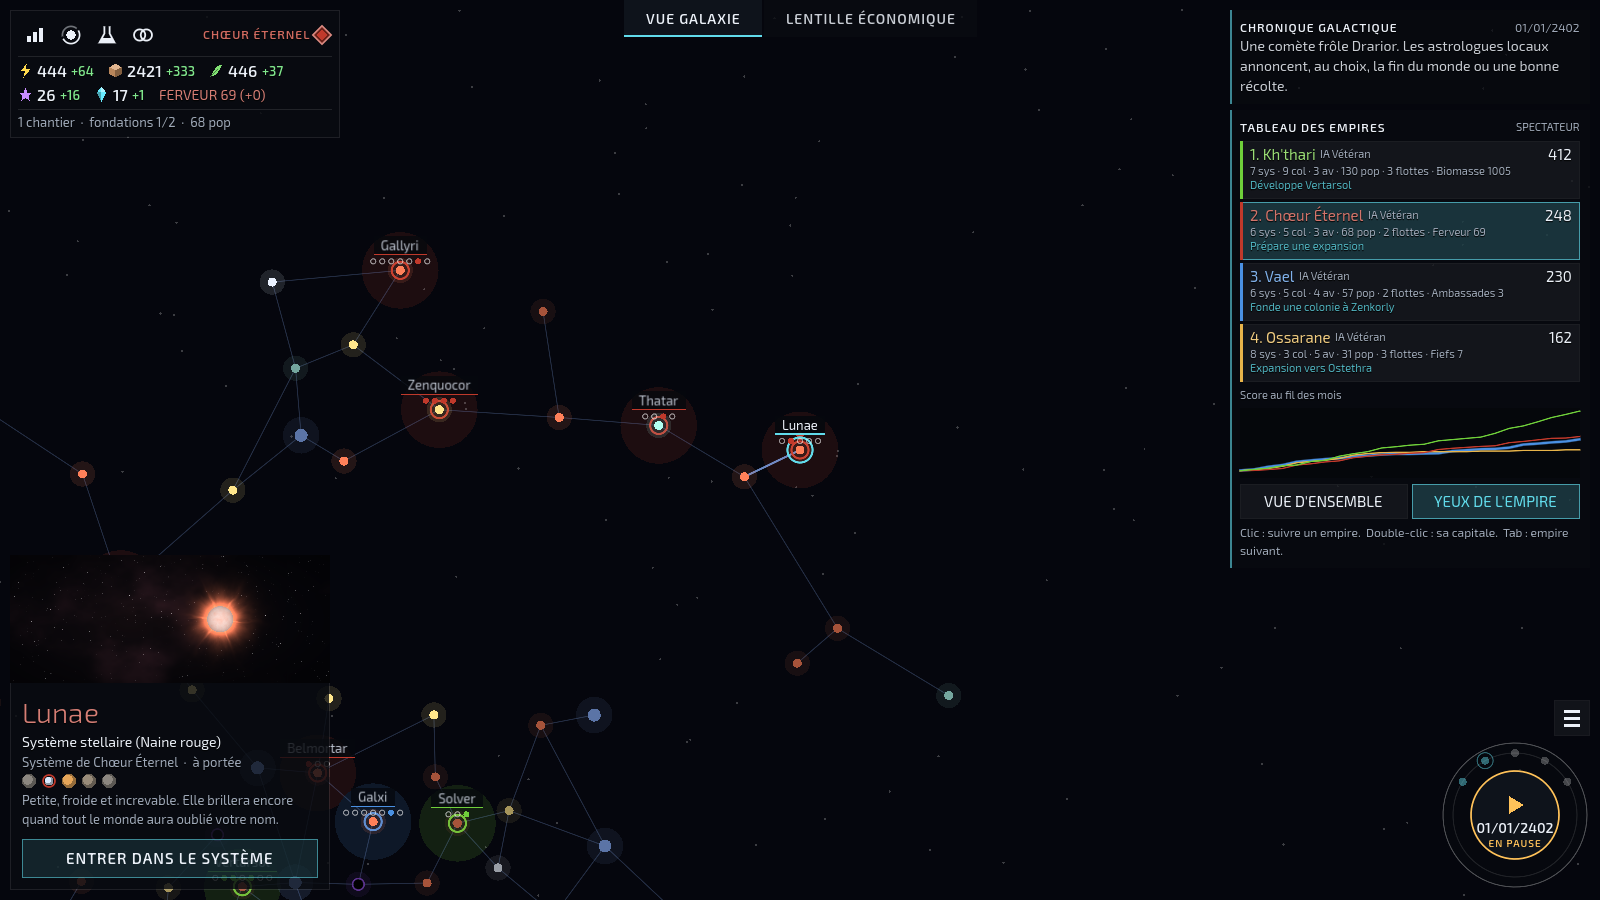
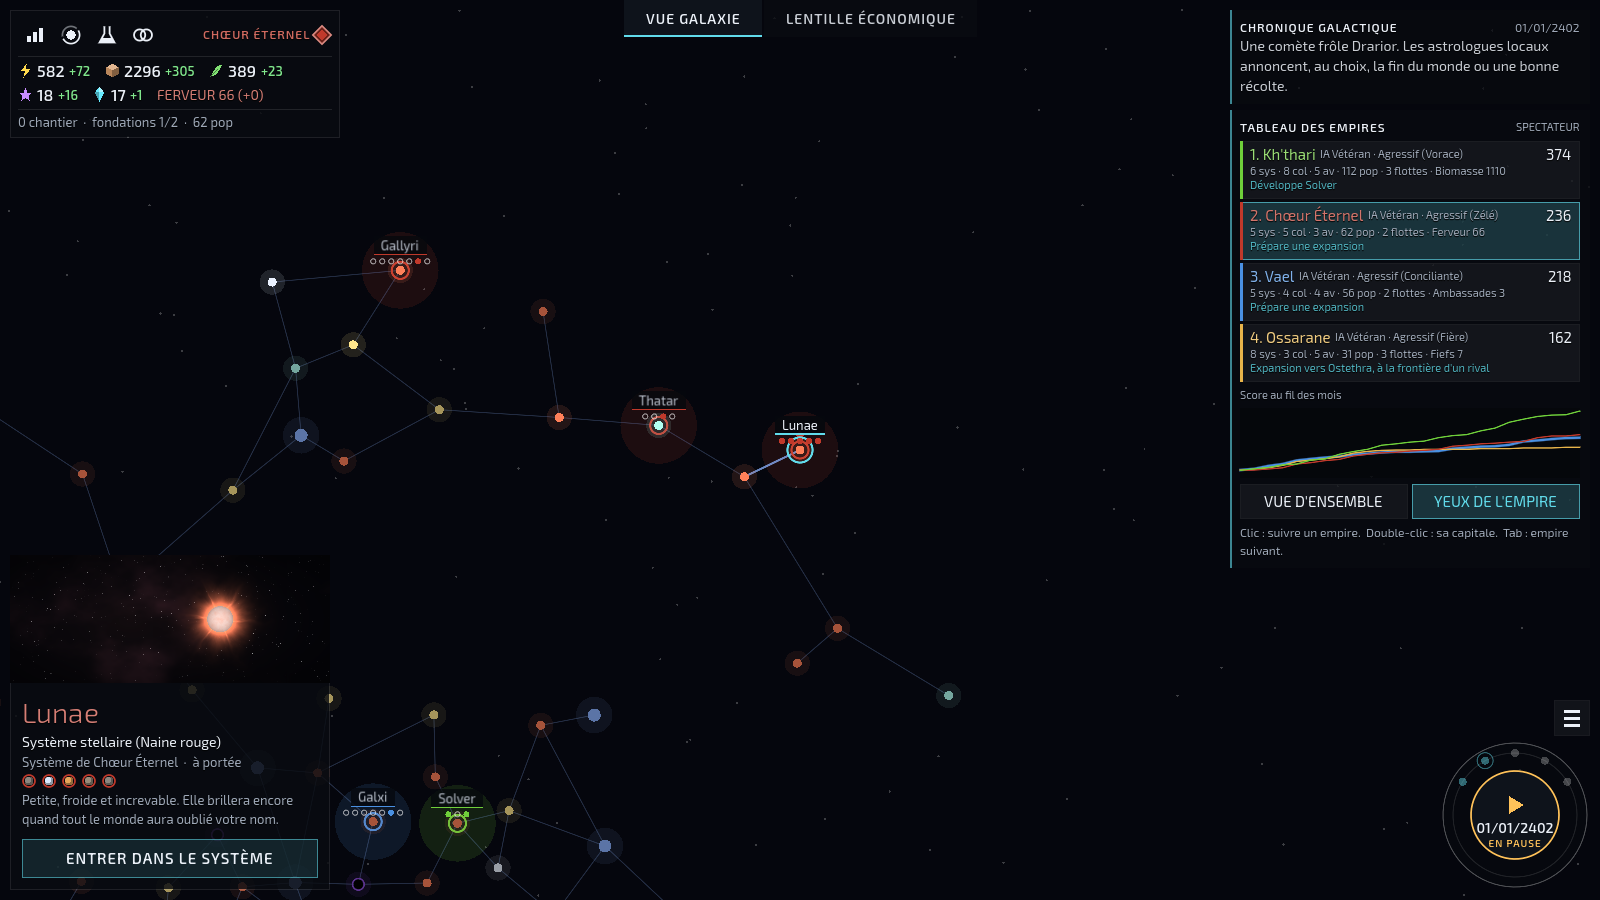
Tempérament des IA (Pacifique à Belliqueux), décalé par le peuple
Réglage séparé de la difficulté, rangé dans la sauvegarde ; il oriente
l'expansion vers ou loin des frontières rivales et sert de point
d'accroche au combat et à la diplomatie. Test d'interface rendu
indépendant du survol de la souris.

Claude-Session: https://claude.ai/code/session_011WbKxBfzU8kNuBXAQsmzW9

diff --git a/README.md b/README.md
@@ -139,7 +139,7 @@ Références consultées pour ces mécaniques (les traits restent originaux) : l
 
 ## Empires IA et mode spectateur
 
-Les trois autres peuples sont menés par l'ordinateur : ils explorent, colonisent, construisent et se servent des talents de leur peuple. Le niveau se choisit dans la ligne « Rivaux » de la nouvelle partie (réglages dans `data/ai.json`).
+Les trois autres peuples sont menés par l'ordinateur : ils explorent, colonisent, construisent et se servent des talents de leur peuple. Le niveau et le tempérament se choisissent dans la ligne « Rivaux » de la nouvelle partie (réglages dans `data/ai.json`).
 
 | Niveau | Comment il joue | Bonus |
 |---|---|---|
@@ -157,6 +157,8 @@ Ce que chaque peuple fait de ses talents selon le niveau (bloc `"ai"` de `data/f
 - **Chœur Éternel** : offrande quand le dieu va se taire (Normal) ; au Vétéran, entretient l'Exaltation (+25 %) en prenant le fidèle dans une colonie pleine, qui regrandit sans rien perdre.
 - **Vael** : vote d'urgence sur les vaisseaux colons et les longs chantiers dès que l'influence déborde (au Vétéran, dès qu'il reste de quoi payer la prochaine revendication) ; un éclaireur de plus pour rencontrer les autres empires (ambassades).
 - **Kh'thari** : vaisseaux-spores lancés depuis ses colonies les plus peuplées (pleines d'abord au Vétéran, la biomasse fait le reste), colonisation sans compter l'influence, fermes en priorité.
+
+**Tempérament.** À côté du niveau, un second réglage règle l'attitude des IA envers les autres empires, sans jamais changer leurs ressources : Pacifique, Prudent, Normal, Agressif, Belliqueux (`data/ai.json`). Chaque peuple le décale d'un cran (bloc `"ai"."temperament"`) : Ossarane est fière (sans décalage), le Chœur zélé et l'Essaim vorace (un cran plus agressifs ; l'Essaim ne fera jamais la paix), Vael conciliante (un cran plus pacifique). Tant qu'il n'y a ni combat ni diplomatie, il oriente l'expansion : un empire agressif colonise au contact de ses rivaux et se jette sur les systèmes disputés, un empire pacifique garde ses distances (seules comptent les frontières qu'il a explorées). Le combat et la diplomatie liront la même valeur (`AiLevels.aggression`) pour décider des guerres et des traités. Inspiré de l'agressivité des IA de Stellaris ([Gameranx](https://gameranx.com/updates/id/55918/article/stellaris-beta-patch-1-10-adds-ai-aggressiveness-customized-titles-and-more/)), des traits de personnalité des IA d'Endless Space 2 et de la guerre éternelle des Cravers ([forum Amplitude](https://community.amplitude-studios.com/amplitude-studios/endless-space-2/ideas/227-faction-goals)), et des programmes des dirigeants de Civilization VI ([PCGamesN](https://www.pcgamesn.com/civilization-vi/leaders-agendas)).
 
 Sur 3 galaxies et 5 ans entre IA (`tools/ai_bench.gd`), le score moyen monte bien avec le niveau pour chaque peuple, et une IA Légende finit devant les autres dans les parties mixtes.
 
@@ -273,7 +275,7 @@ Principes :
 
 ## Tests
 
-Un test de fumée vérifie la génération (plusieurs graines : 150 systèmes, galaxie connectée, noms uniques, déterminisme), le noyau de simulation (`tests/sim_tests.gd` : déterminisme sur 1000 ticks, ordres valides et refusés, ordres en pause, rediffusion, sauvegarde/chargement à l'identique, reprise après chargement identique à une partie jamais interrompue, fichiers abîmés refusés, performance), l'économie (`tests/economy_tests.gd` : données, planètes déterministes, départ des 4 empires, bilan mensuel exact, traits de faction, colonisation et chacun de ses refus, avant-poste transformé en colonie, chantiers et emplacements, croissance plafonnée, famine, pénurie d'énergie, déterminisme, rediffusion et sauvegarde avec colonies, 10 ans sans stock négatif), les empires IA (`tests/ai_tests.gd` : niveaux ordonnés, rivaux et spectateur, expansion en 2 ans sans famine, déterminisme et rediffusion, tour par tour identique au temps réel, aucune triche (brouillard, stocks), Recrue < Vétéran < Légende, talents de chaque peuple selon le niveau, sauvegarde, performance), les flottes (`tests/fleet_tests.gd` : flottes et vision de départ, chemins le long des routes, arrivée au jour annoncé, refus, demi-tour et arrêt en route, chantier spatial, colonisation par vaisseau colon, rassembler et détacher, entretien, premier contact, sauvegarde en plein trajet, rediffusion, expéditions d'exploration), l'horloge et la scène principale avec des entrées simulées (pause, vitesse, clic, ouverture et fermeture de la vue système, bascule vers la vue de gestion, construction et colonisation depuis la fiche de la planète, renommage, F5/F9, Échap, brouillard, sélection de flotte, clic droit pour l'envoyer, fiche de flotte, F, chantier spatial), les bilans d'empire, l'interface (thème, barre d'empire, écrans Économie, Colonies, Recherche et Diplomatie (filtres, colonie choisie, anneau), pause automatique, Tab, H, flèches, fiche de sélection, lentille économique, cadran du temps, menu pause, menu principal et nouvelle partie avec faction et graine choisies) ainsi que la géométrie de la vue système (planètes dans la scène et cliquables) :
+Un test de fumée vérifie la génération (plusieurs graines : 150 systèmes, galaxie connectée, noms uniques, déterminisme), le noyau de simulation (`tests/sim_tests.gd` : déterminisme sur 1000 ticks, ordres valides et refusés, ordres en pause, rediffusion, sauvegarde/chargement à l'identique, reprise après chargement identique à une partie jamais interrompue, fichiers abîmés refusés, performance), l'économie (`tests/economy_tests.gd` : données, planètes déterministes, départ des 4 empires, bilan mensuel exact, traits de faction, colonisation et chacun de ses refus, avant-poste transformé en colonie, chantiers et emplacements, croissance plafonnée, famine, pénurie d'énergie, déterminisme, rediffusion et sauvegarde avec colonies, 10 ans sans stock négatif), les empires IA (`tests/ai_tests.gd` : niveaux ordonnés, rivaux et spectateur, expansion en 2 ans sans famine, déterminisme et rediffusion, tour par tour identique au temps réel, aucune triche (brouillard, stocks), Recrue < Vétéran < Légende, talents de chaque peuple selon le niveau, tempérament (décalage du peuple, sauvegarde, belliqueux plus collé à ses rivaux que pacifique), sauvegarde, performance), les flottes (`tests/fleet_tests.gd` : flottes et vision de départ, chemins le long des routes, arrivée au jour annoncé, refus, demi-tour et arrêt en route, chantier spatial, colonisation par vaisseau colon, rassembler et détacher, entretien, premier contact, sauvegarde en plein trajet, rediffusion, expéditions d'exploration), l'horloge et la scène principale avec des entrées simulées (pause, vitesse, clic, ouverture et fermeture de la vue système, bascule vers la vue de gestion, construction et colonisation depuis la fiche de la planète, renommage, F5/F9, Échap, brouillard, sélection de flotte, clic droit pour l'envoyer, fiche de flotte, F, chantier spatial), les bilans d'empire, l'interface (thème, barre d'empire, écrans Économie, Colonies, Recherche et Diplomatie (filtres, colonie choisie, anneau), pause automatique, Tab, H, flèches, fiche de sélection, lentille économique, cadran du temps, menu pause, menu principal et nouvelle partie avec faction et graine choisies) ainsi que la géométrie de la vue système (planètes dans la scène et cliquables) :
 
 ```
 godot --headless --path . -s res://tests/smoke_test.gd
